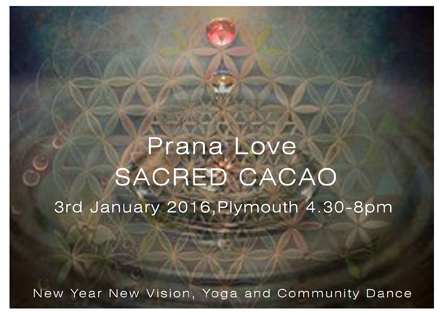
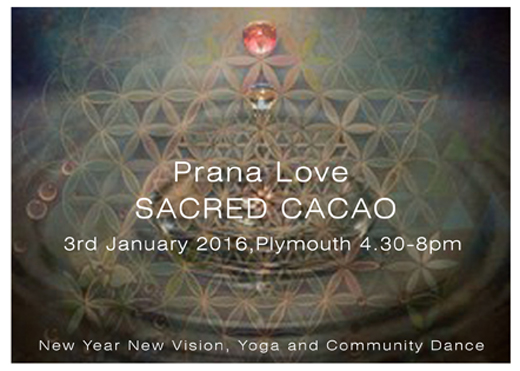
resize keef

diff --git a/workshops.html b/workshops.html
@@ -124,7 +124,7 @@
     </div>
 
     <div class="jumbotron">
-        <div class="photo" style="width:442px; height:315px;">
+        <div class="photo" style="width:520px; height:371px;">
           <img src="img/Yoga/keef.jpg" alt="Sacredcacao" class="photo" />
         </div>
     </div>
